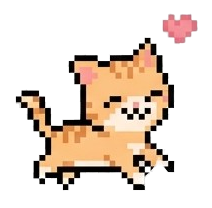
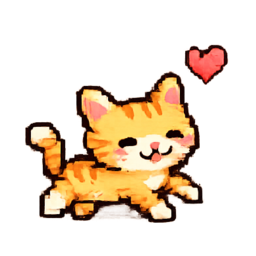
fix(overlay): 拖曳判定以 app 位置為基準，修走動中餵食失效；新增撫摸叫聲與設定開關
- DragWatch.step 可傳 expected（controller 位置），走動的寵物不再被誤判為拖曳
- 邊緣沿走時不再每幀重抽目標，修 walk 左右來回翻轉
- 撫摸播放 dog/cat 叫聲（heart_dog 共用狗叫），設定頁新增聲音開關（預設關）
- 更新 cat/cat2 素材

diff --git a/lib/overlay_main.dart b/lib/overlay_main.dart
@@ -8,6 +8,7 @@ import 'l10n/app_localizations.dart';
 import 'data/repositories/animal_repository.dart';
 import 'data/repositories/settings_repository.dart';
 import 'data/services/animation_loader.dart';
+import 'data/services/animal_sound.dart';
 import 'data/services/overlay_window.dart';
 import 'data/models/animal_resource.dart';
 import 'data/models/animation_definition.dart';
@@ -123,11 +124,17 @@ class _OverlayAppState extends State<_OverlayApp> {
   DragWatch? _dragWatch;
   bool _polling = false;
 
+  final ISoundPlayer _sound = AudioPlayerSoundPlayer();
+
   static const _pollInterval = Duration(milliseconds: 50);
+
+  /// 走動的寵物會被 driver 搬著視窗跑，視窗與 controller 位置之間還有通道延遲，
+  /// 門檻要蓋得過這段落差，真拖曳則很快就會超過。
+  static const _dragThresholdPx = 16.0;
 
   void _startDragWatch(PetController controller) {
     if (_dragTimer != null) return;
-    _dragWatch = DragWatch();
+    _dragWatch = DragWatch(moveThresholdPx: _dragThresholdPx);
     _dragTimer = Timer.periodic(_pollInterval, (_) => unawaited(_pollDrag(controller)));
   }
 
@@ -140,7 +147,7 @@ class _OverlayAppState extends State<_OverlayApp> {
       // 碰已 dispose 的 ChangeNotifier 會觸發 debug 斷言
       final watch = _dragWatch;
       if (!mounted || watch == null || !identical(controller, _controller)) return;
-      switch (watch.step(p)) {
+      switch (watch.step(p, expected: controller.position)) {
         case DragStep.keepWaiting:
           break;
         case DragStep.startDrag:
@@ -168,6 +175,14 @@ class _OverlayAppState extends State<_OverlayApp> {
       _driver?.setEnabled(true);
       controller.endDrag();
     }
+  }
+
+  /// 點擊 / 餵食 / 開選單會由 app 自己搬視窗；那段移動不是使用者拖曳，
+  /// 若 onPanDown 留下的監看還在，會被誤判成拖曳而蓋掉 goToFood 目標。
+  /// 真的在拖曳中就不動它。
+  void _cancelIdleDragWatch(PetController controller) {
+    if (_dragWatch?.dragging ?? false) return;
+    _stopDragWatch(controller);
   }
 
   /// 本地 fork（packages/flutter_overlay_window）在視窗被點到外面時從原生打進來的 channel
@@ -543,6 +558,8 @@ class _OverlayAppState extends State<_OverlayApp> {
   /// 被推上去，動物就「跳上去」讓位。現在自己算視窗左上角：下方夠就朝下長；
   /// 不夠就往上長（動物固定在視窗底部）；變寬的視窗也置中回動物原本的位置。
   Future<void> _openMenu() async {
+    final controller = _controller;
+    if (controller != null) _cancelIdleDragWatch(controller);
     _driver?.setEnabled(false);
     _controller?.setPaused(true);
     const window = OverlayWindow();
@@ -609,6 +626,7 @@ class _OverlayAppState extends State<_OverlayApp> {
   void _feedNow() {
     final controller = _controller;
     if (controller == null) return;
+    _cancelIdleDragWatch(controller);
     controller.feedAt(
       Offset(controller.position.dx + feedDropDistance, controller.position.dy),
     );
@@ -636,8 +654,10 @@ class _OverlayAppState extends State<_OverlayApp> {
   void _petNow() {
     final controller = _controller;
     if (controller == null) return;
+    _cancelIdleDragWatch(controller);
     // 定格時 pet() 回 false（那一下根本沒反應）→ 不該計分，否則又是「做了沒反應卻偷偷漲」
     if (!controller.pet()) return;
+    _playTouchSound();
     if (controller.stats.awardPet(DateTime.now())) {
       // _controller 與 _resource 在同一個 setState 裡一起換（見 _loadAnimal 尾端），
       // 所以這裡的 id 必然就是這個 controller 所屬那隻動物的 id。
@@ -645,6 +665,15 @@ class _OverlayAppState extends State<_OverlayApp> {
       if (id != null) unawaited(_saveBond(id, controller));
     }
     _flushHunger(controller);
+  }
+
+  /// 撫摸叫聲：設定開著且這隻動物有音效才播
+  void _playTouchSound() {
+    if (!_settings.soundEnabled) return;
+    final animalId = _resource?.animalId;
+    final asset = animalId == null ? null : touchSoundFor(animalId);
+    if (asset == null) return;
+    unawaited(_sound.play(asset));
   }
 
   /// 親密度落盤。一天最多 +16 分（PetBond 的額度），寫盤頻率天生就低，不必節流。
@@ -851,6 +880,7 @@ class _OverlayAppState extends State<_OverlayApp> {
     _controller?.dispose();
     _stats?.dispose();
     _stats = null;
+    unawaited(_sound.dispose());
     super.dispose();
   }
 }

diff --git a/lib/domain/pet_settings.dart b/lib/domain/pet_settings.dart
@@ -59,6 +59,9 @@ class PetSettings {
   /// 餓的門檻（分鐘），見 [minHungerMinutes] / [maxHungerMinutes]
   final int hungerMinutesUntilHungry;
 
+  /// 摸一下時是否發出叫聲（只對有提供音效的動物生效，見 animal_sound_catalog）
+  final bool soundEnabled;
+
   const PetSettings({
     this.speedPxPerSecond = defaultSpeedPerSecond,
     this.petSize = defaultPetSize,
@@ -67,6 +70,7 @@ class PetSettings {
     this.languageCode,
     this.themeMode = 'system',
     this.hungerMinutesUntilHungry = defaultHungerMinutes,
+    this.soundEnabled = false,
   });
 
   /// languageCode 要能被明確設回 null（跟隨系統），所以用 sentinel 而不是 null 当「不變」
@@ -80,6 +84,7 @@ class PetSettings {
     Object? languageCode = _unchanged,
     String? themeMode,
     int? hungerMinutesUntilHungry,
+    bool? soundEnabled,
   }) =>
       PetSettings(
         speedPxPerSecond: speedPxPerSecond ?? this.speedPxPerSecond,
@@ -91,6 +96,7 @@ class PetSettings {
             : languageCode as String?,
         themeMode: themeMode ?? this.themeMode,
         hungerMinutesUntilHungry: hungerMinutesUntilHungry ?? this.hungerMinutesUntilHungry,
+        soundEnabled: soundEnabled ?? this.soundEnabled,
       );
 
   /// 每幀該走幾像素（速度存 px/s，才不會被 tick 長度綁死）
@@ -104,6 +110,7 @@ class PetSettings {
         'languageCode': languageCode,
         'themeMode': themeMode,
         'hungerMinutesUntilHungry': hungerMinutesUntilHungry,
+        'soundEnabled': soundEnabled,
       };
 
   /// 容忍髒資料：缺欄位/型別不對/zone 不認識，一律回到預設值而不是丟例外
@@ -130,6 +137,7 @@ class PetSettings {
         hungerMinutesUntilHungry: _number(json['hungerMinutesUntilHungry'], defaultHungerMinutes)
             .clamp(minHungerMinutes, maxHungerMinutes)
             .round(),
+        soundEnabled: json['soundEnabled'] is bool ? json['soundEnabled'] as bool : false,
       );
 
   static num _number(Object? value, num fallback) =>

diff --git a/lib/domain/drag_watch.dart b/lib/domain/drag_watch.dart
@@ -17,10 +17,10 @@ enum DragStep {
 
 /// 「視窗有沒有在被拖」的狀態機（純邏輯，不碰平台，方便測）。
 ///
-/// 判定基準是**視窗自己第一次的讀值**，不是寵物的位置。這一點是 #2 的根因所在：
-/// 寵物每 16ms 就在走，拿 `PetController.position` 當基準的話，走動的寵物被摸一下
-/// 就會差超過門檻（90 px/s 時一跳 1.44 px、200 px/s 時 3.2 px，還疊著方法通道的
-/// 往返延遲）→ 撫摸被誤判成拖曳。視窗在沒有人拖的時候是不動的，拿它跟自己比才乾淨。
+/// 判定基準有兩種：
+/// - 傳入 `expected`（app 目前放視窗的座標）：視窗與它的距離超過門檻才算拖曳。
+///   寵物走動時 driver 會跟著搬視窗，單看視窗位置會把走動誤判成拖曳（吃不到食物的根因）。
+/// - 沒傳 `expected`：拿視窗第一次的讀值當錨點（視窗自己不動時才適用）。
 ///
 /// 已知代價（與改動前相同，DEVICE_TEST A-8）：拖曳中停頓超過 [maxIdlePolls] ×
 /// 輪詢間隔會被當成放手。根治要靠本地 fork 把 `ACTION_UP` 回傳給 overlay 的 Dart 側。
@@ -48,10 +48,10 @@ class DragWatch {
   bool get dragging => _dragging;
 
   /// 餵進一次輪詢讀到的視窗左上角（邏輯像素），回報這一步該做什麼。
-  DragStep step(Offset window) {
+  DragStep step(Offset window, {Offset? expected}) {
     if (!_dragging) {
-      _anchor ??= window;
-      if ((window - _anchor!).distance < _moveThresholdPx) {
+      final baseline = expected ?? (_anchor ??= window);
+      if ((window - baseline).distance < _moveThresholdPx) {
         _polls++;
         return _polls >= _maxPreDragPolls ? DragStep.stop : DragStep.keepWaiting;
       }

diff --git a/test/animal_sound_test.dart b/test/animal_sound_test.dart
@@ -1,0 +1,38 @@
+import 'dart:io';
+
+import 'package:flutter_test/flutter_test.dart';
+import 'package:dneko/data/services/animal_sound.dart';
+import 'package:dneko/domain/pet_settings.dart';
+
+void main() {
+  group('叫聲音效', () {
+    test('有提供音效的內建動物回傳路徑，其餘回傳 null', () {
+      expect(touchSoundFor('cat'), 'animals/cat/meow.mp3');
+      expect(touchSoundFor('cat2'), 'animals/cat/meow.mp3');
+      expect(touchSoundFor('dog'), 'animals/dog/bark.mp3');
+      expect(touchSoundFor('heart_dog'), 'animals/dog/bark.mp3');
+      expect(touchSoundFor('penguin'), isNull);
+      expect(touchSoundFor('downloaded_unknown'), isNull);
+    });
+
+    test('對應的音效檔都存在於 assets/', () {
+      for (final id in ['cat', 'dog']) {
+        final path = touchSoundFor(id)!;
+        expect(File('assets/$path').existsSync(), isTrue, reason: path);
+      }
+    });
+  });
+
+  group('soundEnabled 設定', () {
+    test('預設關閉', () {
+      expect(const PetSettings().soundEnabled, isFalse);
+    });
+
+    test('JSON 往返保留，缺欄位或型別錯誤回到關閉', () {
+      final on = const PetSettings().copyWith(soundEnabled: true);
+      expect(PetSettings.fromJson(on.toJson()).soundEnabled, isTrue);
+      expect(PetSettings.fromJson({'soundEnabled': 'yes'}).soundEnabled, isFalse);
+      expect(PetSettings.fromJson({}).soundEnabled, isFalse);
+    });
+  });
+}

diff --git a/test/drag_watch_test.dart b/test/drag_watch_test.dart
@@ -86,6 +86,30 @@ void main() {
     });
   });
 
+  group('DragWatch —— 傳入 expected（app 目前放視窗的位置）', () {
+    // overlay 的實際用法：driver 每 tick 都在搬視窗，視窗會比 controller 慢一拍。
+    test('寵物走動、視窗跟著走（落後一拍）→ 不準判成拖曳', () {
+      final w = DragWatch(moveThresholdPx: 16);
+      var appPos = still;
+      var windowPos = still;
+      final steps = <DragStep>[];
+      for (var i = 0; i < 20; i++) {
+        windowPos = appPos; // 上一拍的座標
+        appPos = appPos + const Offset(5, 0); // 每 50ms 走 5px
+        steps.add(w.step(windowPos, expected: appPos));
+      }
+
+      expect(steps, isNot(contains(DragStep.startDrag)));
+    });
+
+    test('視窗被手拖走、app 座標沒動 → 超過門檻就 startDrag', () {
+      final w = DragWatch(moveThresholdPx: 16);
+
+      expect(w.step(const Offset(130, 340), expected: still), DragStep.keepWaiting);
+      expect(w.step(const Offset(150, 340), expected: still), DragStep.startDrag);
+    });
+  });
+
   group('DragWatch —— 門檻可調', () {
     test('moveThresholdPx 放大後，同樣的位移就不算拖曳', () {
       final w = DragWatch(moveThresholdPx: 20);

diff --git a/lib/data/services/animal_sound.dart b/lib/data/services/animal_sound.dart
@@ -1,0 +1,35 @@
+import 'package:audioplayers/audioplayers.dart';
+
+/// 只負責：播放一段音效檔（抽成介面，方便測試時換成假的）
+abstract interface class ISoundPlayer {
+  Future<void> play(String assetPath);
+  Future<void> dispose();
+}
+
+class AudioPlayerSoundPlayer implements ISoundPlayer {
+  final AudioPlayer _player = AudioPlayer();
+
+  @override
+  Future<void> play(String assetPath) async {
+    try {
+      // AssetSource 的路徑相對於 assets/
+      await _player.play(AssetSource(assetPath));
+    } catch (_) {
+      // 音效失敗不該影響寵物本身（例如 plugin 尚未就緒）
+    }
+  }
+
+  @override
+  Future<void> dispose() => _player.dispose();
+}
+
+/// 內建動物的「摸一下」叫聲，路徑相對於 assets/。沒列在這裡的動物（如下載的）不出聲。
+const Map<String, String> _touchSoundByAnimal = {
+  'cat': 'animals/cat/meow.mp3',
+  'cat2': 'animals/cat/meow.mp3',
+  'dog': 'animals/dog/bark.mp3',
+  'heart_dog': 'animals/dog/bark.mp3',
+};
+
+/// 回傳該動物摸一下要播的音效路徑；沒有音效回傳 null
+String? touchSoundFor(String animalId) => _touchSoundByAnimal[animalId];

diff --git a/lib/presentation/pages/home_page.dart b/lib/presentation/pages/home_page.dart
@@ -317,6 +317,12 @@ class _HomePageState extends State<HomePage> with WidgetsBindingObserver {
               _toggleCard(l10n),
               const SizedBox(height: 8),
               _hungerRow(l10n),
+              SwitchListTile(
+                contentPadding: EdgeInsets.zero,
+                title: Text(l10n.settingsSound),
+                value: settings.soundEnabled,
+                onChanged: (v) => _apply(settings.copyWith(soundEnabled: v)),
+              ),
               const SizedBox(height: 24),
               Text(l10n.settingsAnimal),
               const SizedBox(height: 4),

diff --git a/lib/presentation/controllers/pet_controller.dart b/lib/presentation/controllers/pet_controller.dart
@@ -178,8 +178,10 @@ class PetController extends ChangeNotifier {
     _position = result.position;
 
     // 漫遊途中貼到邊緣 → 交給邊緣策略決定新目標（餵食途中不打斷）
+    // 目標已在邊上時不重抽：沿邊走時每幀重抽會讓左右方向來回跳
     if (_behavior == PetBehavior.wander &&
-        _edge.isAtEdge(_position, _bounds)) {
+        _edge.isAtEdge(_position, _bounds) &&
+        !_edge.isAtEdge(_target!, _bounds)) {
       _target = _edge.nextTargetOnEdge(_position, _bounds);
     }
 

diff --git a/lib/l10n/app_localizations_zh.dart b/lib/l10n/app_localizations_zh.dart
@@ -91,6 +91,9 @@ class AppLocalizationsZh extends AppLocalizations {
   String get settingsZone => '活動範圍';
 
   @override
+  String get settingsSound => '摸一下会叫';
+
+  @override
   String get settingsAnimal => '寵物';
 
   @override
@@ -260,6 +263,9 @@ class AppLocalizationsZhTw extends AppLocalizationsZh {
 
   @override
   String get settingsZone => '活動範圍';
+
+  @override
+  String get settingsSound => '摸一下會叫';
 
   @override
   String get settingsAnimal => '寵物';

diff --git a/lib/l10n/app_localizations.dart b/lib/l10n/app_localizations.dart
@@ -263,6 +263,12 @@ abstract class AppLocalizations {
   /// **'Roaming area'**
   String get settingsZone;
 
+  /// No description provided for @settingsSound.
+  ///
+  /// In en, this message translates to:
+  /// **'Sound when touched'**
+  String get settingsSound;
+
   /// No description provided for @settingsAnimal.
   ///
   /// In en, this message translates to:

diff --git a/lib/data/repositories/animal_repository.dart b/lib/data/repositories/animal_repository.dart
@@ -89,6 +89,7 @@ class AnimalRepository implements IAnimalRepository {
   static List<AnimalResource> get builtIns => [
         for (final (id, name) in const [
           ('cat', '小花貓'),
+          ('cat2', '阿咪'),
           ('dog', '小狗'),
           ('penguin', '小企鵝'),
           ('heart_dog', '愛心狗'),

diff --git a/lib/l10n/app_localizations_ja.dart b/lib/l10n/app_localizations_ja.dart
@@ -91,6 +91,9 @@ class AppLocalizationsJa extends AppLocalizations {
   String get settingsZone => '移動エリア';
 
   @override
+  String get settingsSound => 'なでたときに鳴き声';
+
+  @override
   String get settingsAnimal => 'ペット';
 
   @override
